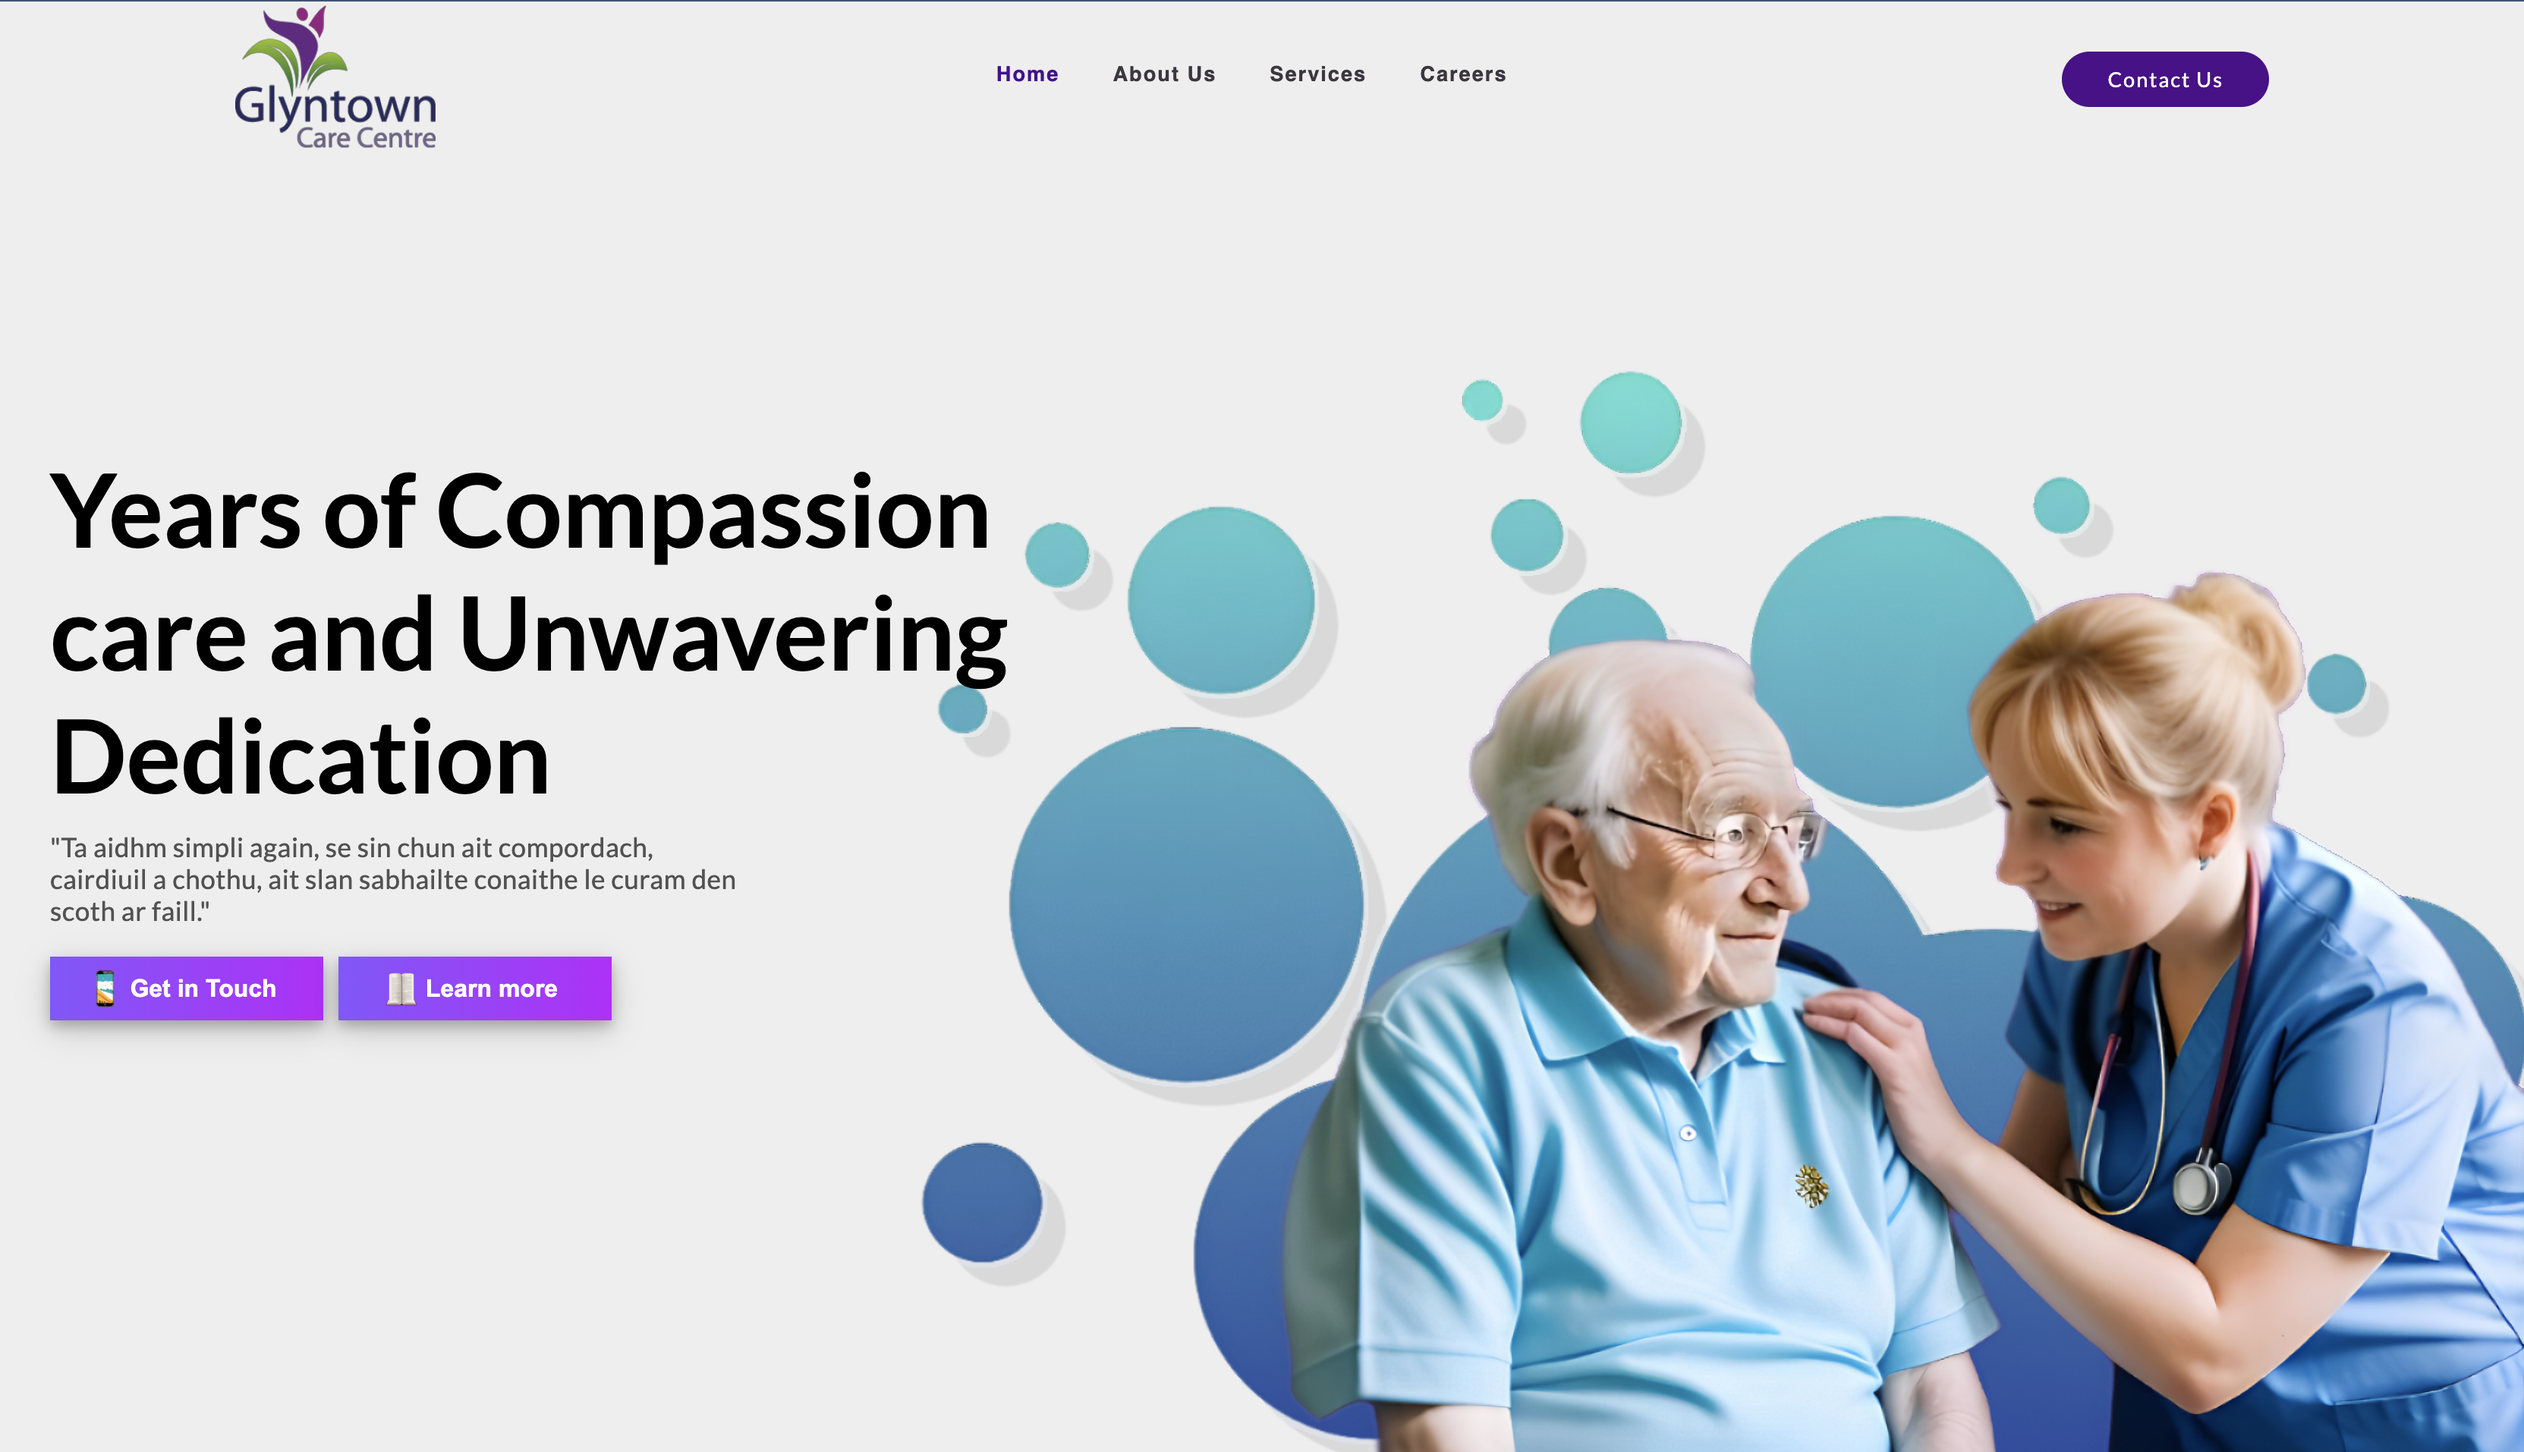
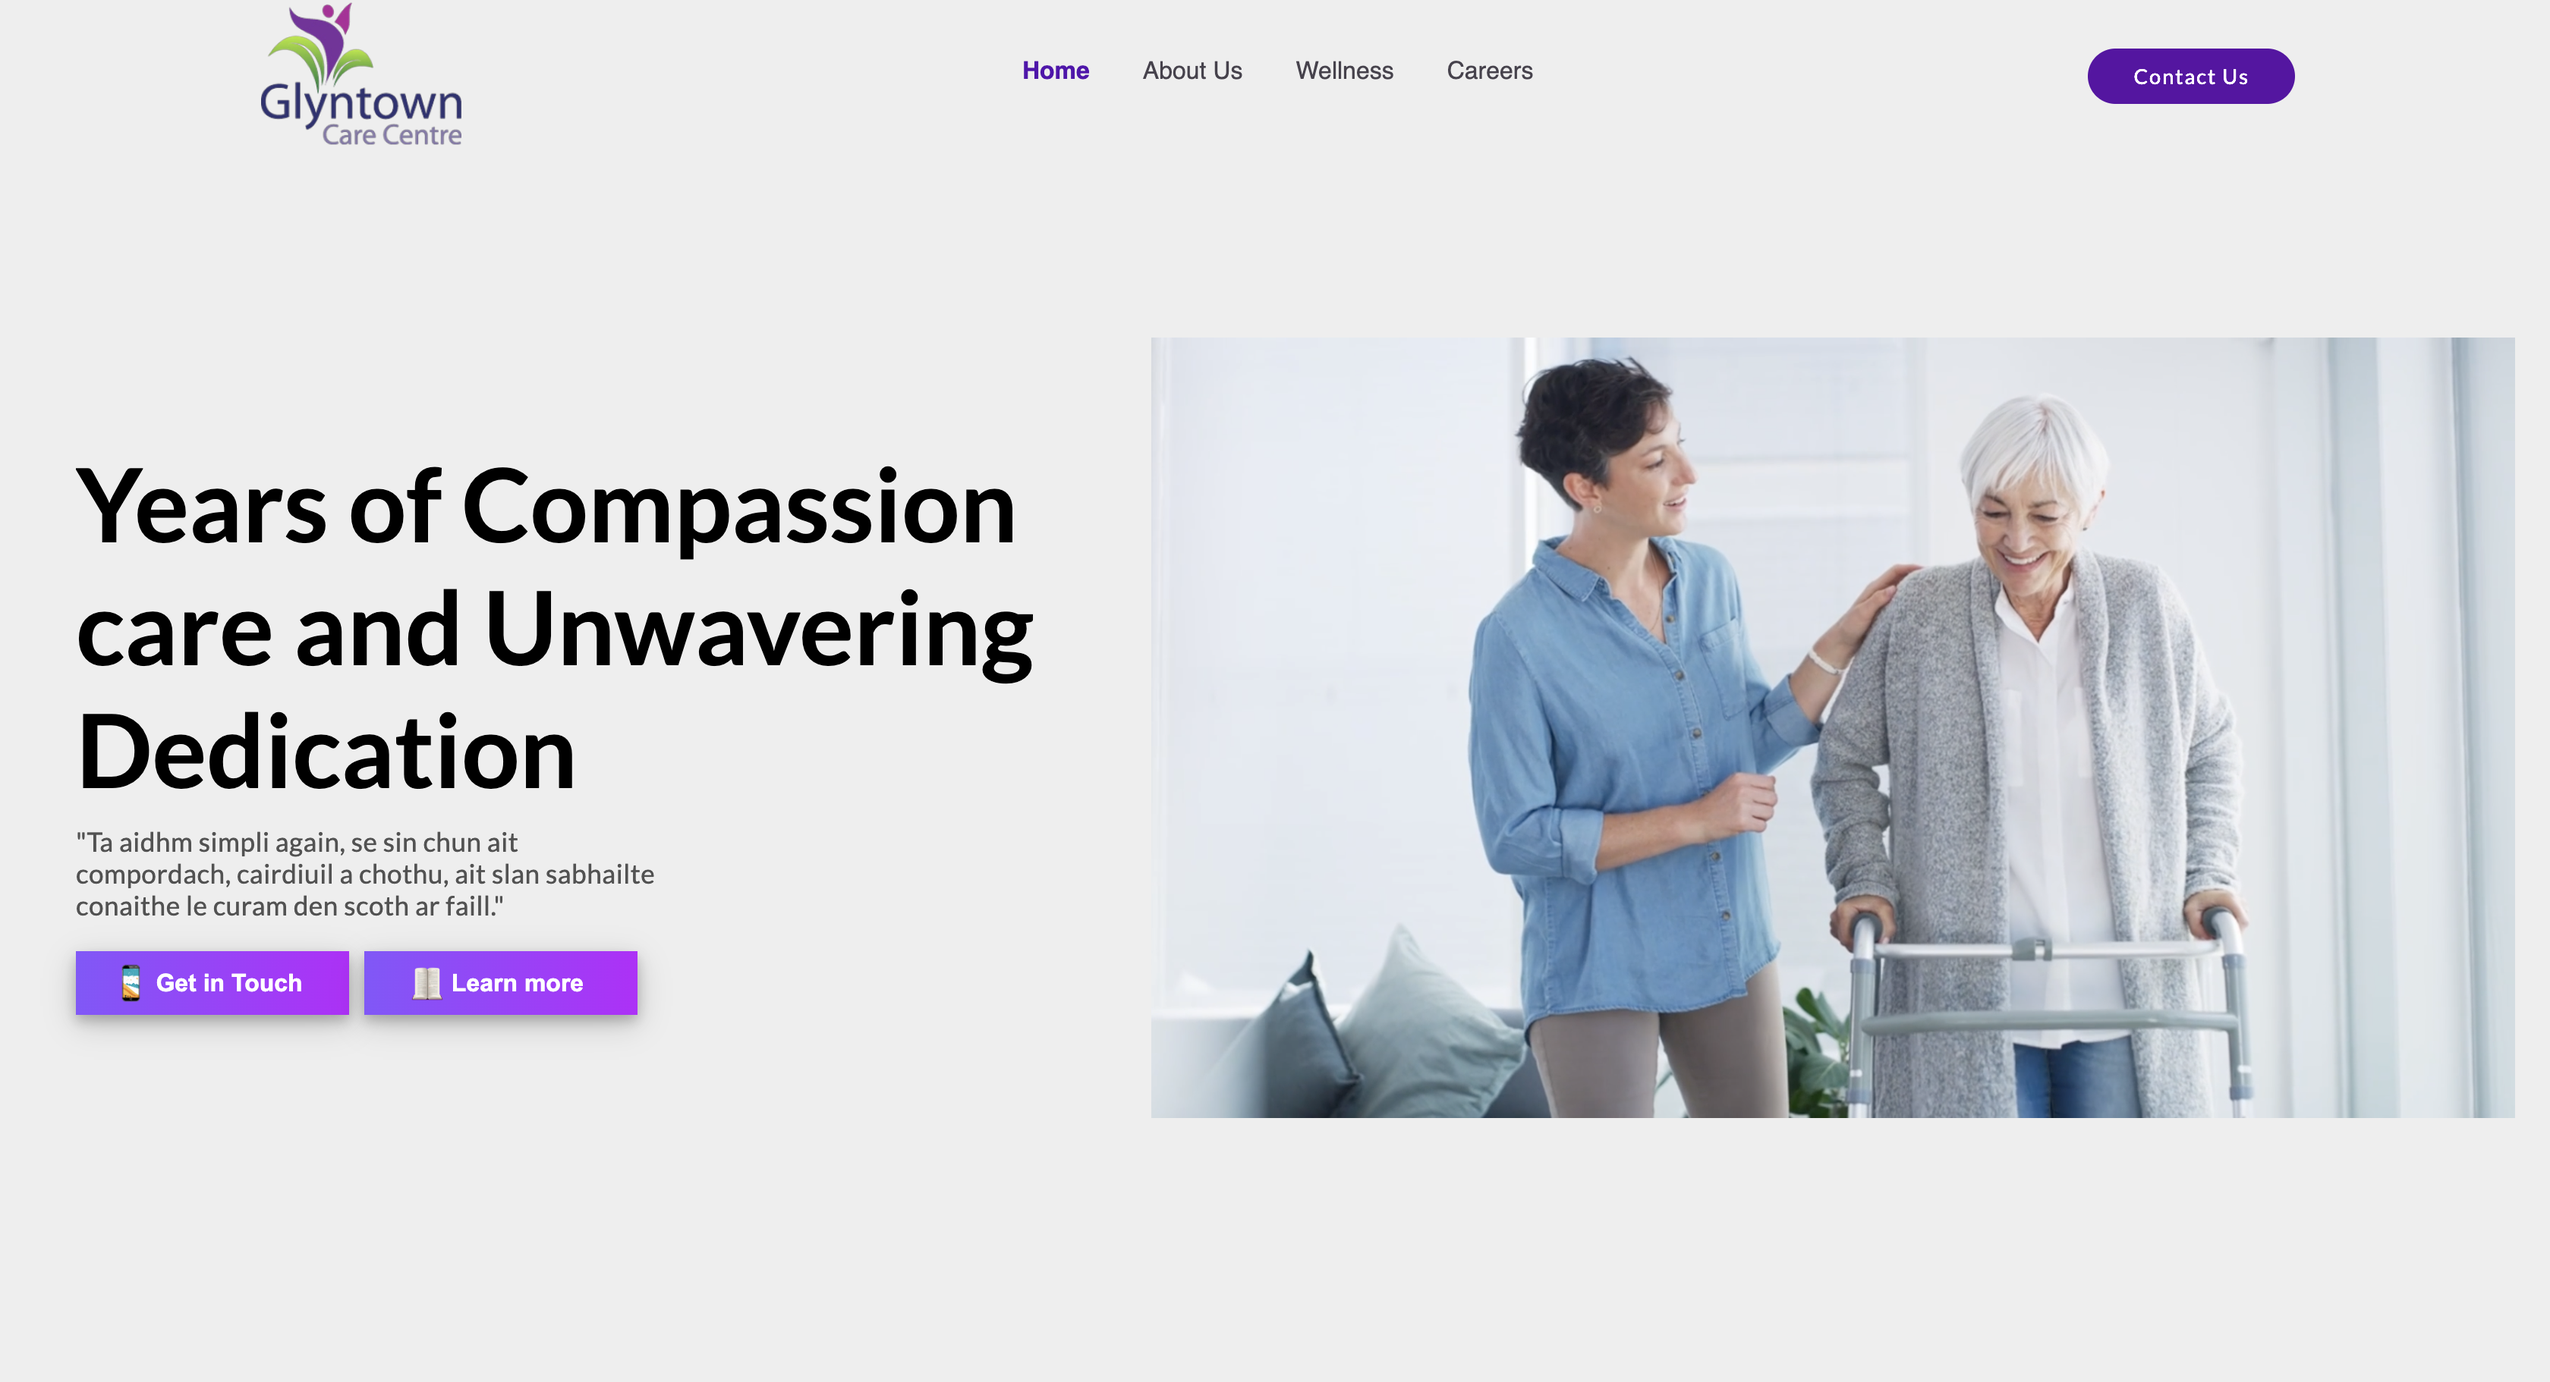
bug fixes

diff --git a/index.html b/index.html
@@ -483,7 +483,7 @@
         </div> -->
         <div class="case-study-imgs-container">
 
-          <div class="case-study blur-animation-scroll">
+          <div class="case-study ">
             <img src="images/glyntowncare.png" alt="">
             <section>
 
@@ -516,7 +516,7 @@
                 <button>Read more</button></a>
             </section>
           </div>
-          <div class="case-study blur-animation-scroll">
+          <div class="case-study ">
             <img src="images/reclessreviews.png" alt="">
             <section>
 
@@ -539,7 +539,7 @@
             </section>
 
           </div>
-          <div class="case-study blur-animation-scroll">
+          <div class="case-study ">
             <img src="https://raw.githubusercontent.com/raphaeldiezmo/Mou/refs/heads/main/logo/Mou.png" alt="">
             <section>
               <div class="case-study-challenges-container">

diff --git a/case-study/glyntowncare/index.html b/case-study/glyntowncare/index.html
@@ -53,9 +53,17 @@
   </nav>
   <main>
     <div class="case-study-container">
-      <div class="case-study-img">
-        <img style="max-width: 1000px;" src="../../images/glyntowncare.png" alt="">
-      </div>
+      <section class="landing-case-study">
+        <figure class="case-study-img appear">
+          <img style="max-width: 1000px;" src="../../images/glyntowncare.png" alt="">
+        </figure>
+        <div class="landing-case-study-text">
+          <h1 class="bottomToTop-text">Case Study</h1>
+          <h1 class="appear">#1</h1>
+          <h1>Glyntown Care Centre</h1>
+        </div>
+      </section>
+
       <div class="case-study-contents">
 
         <div class="case-study-content-section">

diff --git a/style/case-study.css b/style/case-study.css
@@ -74,6 +74,7 @@
     align-items: center;
 
 
+
 }
 
 .case-study {
@@ -139,10 +140,35 @@
 
 }
 
-.case-study-img img:hover {
-    transform: scale(1.1);
-    border-radius: 8px;
+.landing-case-study {
+    display: flex;
+    width: clamp(300px, 90%, 1000px);
+    gap: 50px;
+    margin-top: 100px;
+}
 
+.landing-case-study-text {
+    display: flex;
+    flex-direction: column;
+    color: white;
+    justify-content: center;
+    align-items: start;
+
+
+}
+
+.landing-case-study-text h1 {
+    font-size: clamp(2rem, 10vw, 4rem);
+}
+
+.case-study-img {
+    margin: auto;
+    text-align: center;
+}
+
+.case-study-img img {
+    width: clamp(300px, 100%, 600px);
+    margin: auto;
 }
 
 .case-study-contents {
